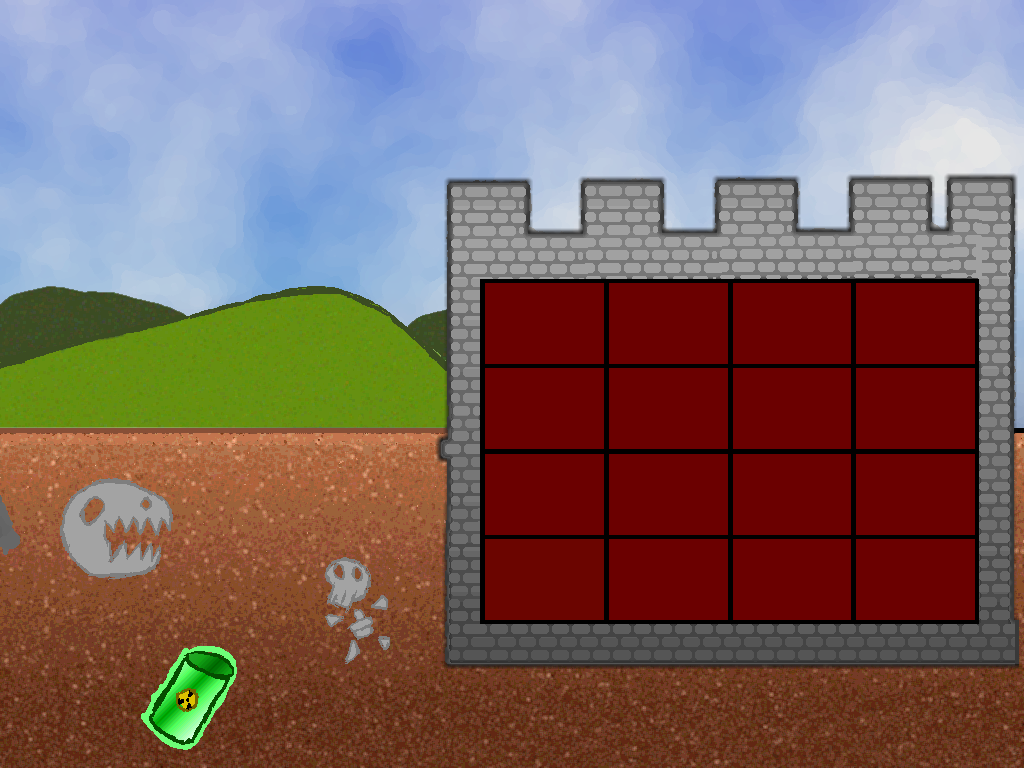
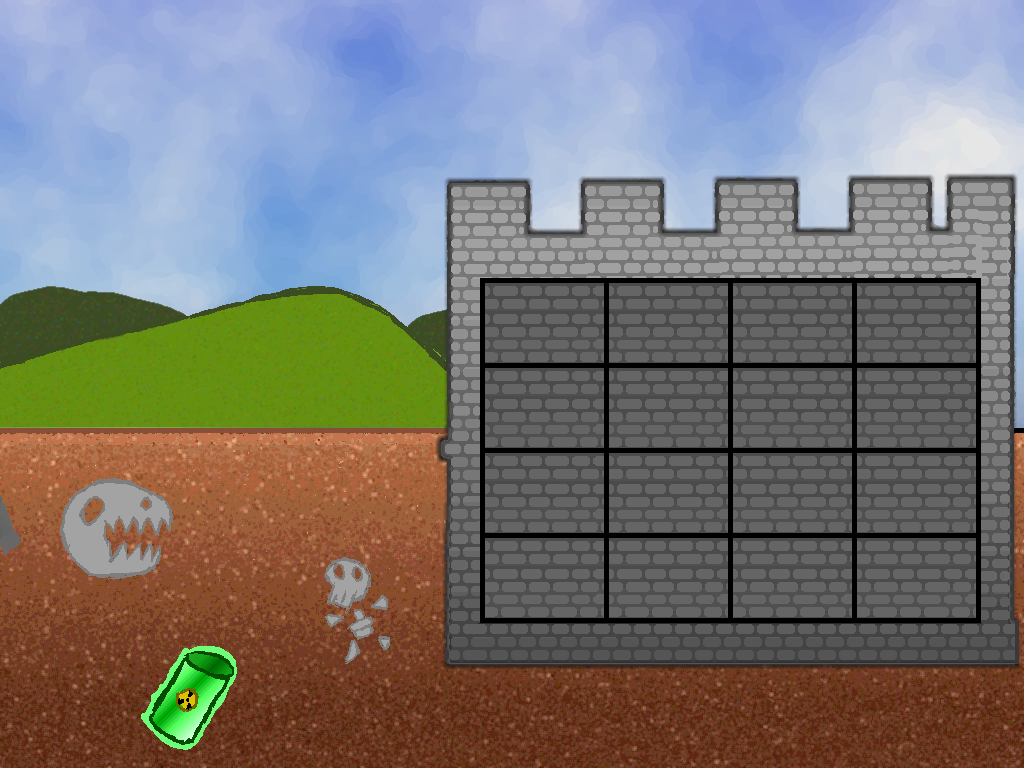
Working on backgrounds and tower, rocks

Changed region(s): [[0.4688, 0.3438, 0.9688, 0.8125]]

diff --git a/src/game/scenes/MainMenu.ts b/src/game/scenes/MainMenu.ts
@@ -1,82 +1,39 @@
-import { GameObjects, Scene } from 'phaser';
+import { GameObjects, Scene } from "phaser";
 
-import { EventBus } from '../EventBus';
+import { EventBus } from "../EventBus";
 
-import { exploit } from 'srcscale.tsx';
-
-export class MainMenu extends Scene
-{
+export class MainMenu extends Scene {
     background: GameObjects.Image;
-    logo: GameObjects.Image;
     title: GameObjects.Text;
-    logoTween: Phaser.Tweens.Tween | null;
 
-    constructor ()
-    {
-        super('MainMenu');
+    constructor() {
+        super("MainMenu");
     }
 
-    create ()
-    {
-        this.background = this.add.image(512, 384, 'background');
+    create() {
+        this.background = this.add.image(512, 384, "menu-bg");
 
-        this.logo = this.add.image(512, 300, 'logo').setDepth(100);
+        this.title = this.add
+            .text(512, 460, "Click to Start", {
+                fontFamily: "Arial Black",
+                fontSize: 38,
+                color: "#ffffff",
+                stroke: "#000000",
+                strokeThickness: 8,
+                align: "center",
+            })
+            .setOrigin(0.5)
+            .setDepth(100);
 
-        this.title = this.add.text(512, 460, 'Main Menu', {
-            fontFamily: 'Arial Black', fontSize: 38, color: '#ffffff',
-            stroke: '#000000', strokeThickness: 8,
-            align: 'center'
-        }).setOrigin(0.5).setDepth(100);
+        this.title.setInteractive({ useHandCursor: true });
+        this.title.on("pointerdown", () => {
+            this.changeScene();
+        });
 
-        this.title.setInteractive();
-        this.title.on('pointerdown', () => { this.changeScene() });
-
-
-        EventBus.emit('current-scene-ready', this);
+        EventBus.emit("current-scene-ready", this);
     }
 
-    changeScene ()
-    {
-        if (this.logoTween)
-        {
-            this.logoTween.stop();
-            this.logoTween = null;
-        }
-
-        this.scene.start('Game');
-    }
-
-    moveLogo (vueCallback: ({ x, y }: { x: number, y: number }) => void)
-    {
-        if (this.logoTween)
-        {
-            if (this.logoTween.isPlaying())
-            {
-                this.logoTween.pause();
-            }
-            else
-            {
-                this.logoTween.play();
-            }
-        } 
-        else
-        {
-            this.logoTween = this.tweens.add({
-                targets: this.logo,
-                x: { value: 750, duration: 3000, ease: 'Back.easeInOut' },
-                y: { value: 80, duration: 1500, ease: 'Sine.easeOut' },
-                yoyo: true,
-                repeat: -1,
-                onUpdate: () => {
-                    if (vueCallback)
-                    {
-                        vueCallback({
-                            x: Math.floor(this.logo.x),
-                            y: Math.floor(this.logo.y)
-                        });
-                    }
-                }
-            });
-        }
+    changeScene() {
+        this.scene.start("Game");
     }
 }

diff --git a/src/game/scenes/Game.ts b/src/game/scenes/Game.ts
@@ -1,6 +1,7 @@
 import { EventBus } from "../EventBus";
 import { Scene } from "phaser";
 import Granite from "../../rock-types/Granite";
+import Castle from "../../Tower";
 
 export class Game extends Scene {
     camera: Phaser.Cameras.Scene2D.Camera;
@@ -11,6 +12,7 @@ export class Game extends Scene {
     rock: Granite;
     // floor: Phaser.Physics.Arcade.
     platforms: Phaser.Physics.Arcade.StaticGroup;
+    tower: Castle;
 
     constructor() {
         super("Game");
@@ -24,24 +26,27 @@ export class Game extends Scene {
 
         if (this.input.keyboard)
             this.cursors = this.input.keyboard.createCursorKeys();
+        this.tower = new Castle(this);
 
-        this.gameText = this.add
-            .text(512, 384, "DRAGONSPLOIT", {
-                fontFamily: "Arial Black",
-                fontSize: 38,
-                color: "#ffffff",
-                stroke: "#000000",
-                strokeThickness: 8,
-                align: "center",
-            })
-            .setOrigin(0.5)
-            .setDepth(100);
+        // this.gameText = this.add
+        //     .text(512, 384, "DRAGONSPLOIT", {
+        //         fontFamily: "Arial Black",
+        //         fontSize: 38,
+        //         color: "#ffffff",
+        //         stroke: "#000000",
+        //         strokeThickness: 8,
+        //         align: "center",
+        //     })
+        //     .setOrigin(0.5)
+        //     .setDepth(100);
 
-        
         // this.physics.add.staticImage(-100, this.scale.gameSize.height - 100, "rock").setScale(1000, 1).refreshBody();
 
         this.platforms = this.physics.add.staticGroup();
-        this.platforms.create(-100, this.scale.gameSize.height - 100, "rock").setScale(1000, 1).refreshBody();
+        this.platforms
+            .create(-100, this.scale.gameSize.height - 100, "rock")
+            .setScale(1000, 1)
+            .refreshBody();
 
         EventBus.emit("current-scene-ready", this);
     }

diff --git a/src/Tower.tsx b/src/Tower.tsx
@@ -3,6 +3,9 @@ import Room from "./TowerRoom";
 export default class Castle extends Phaser.GameObjects.GameObject {
     public static GRID_SIZE_X = 4;
     public static GRID_SIZE_Y = 4;
+    private static roomStart = [485, 283];
+    private static roomSize = [119, 82];
+    private static roomGap = 5;
 
     private rooms: Room[];
 
@@ -35,4 +38,3 @@ export default class Castle extends Phaser.GameObjects.GameObject {
         );
     }
 }
-
